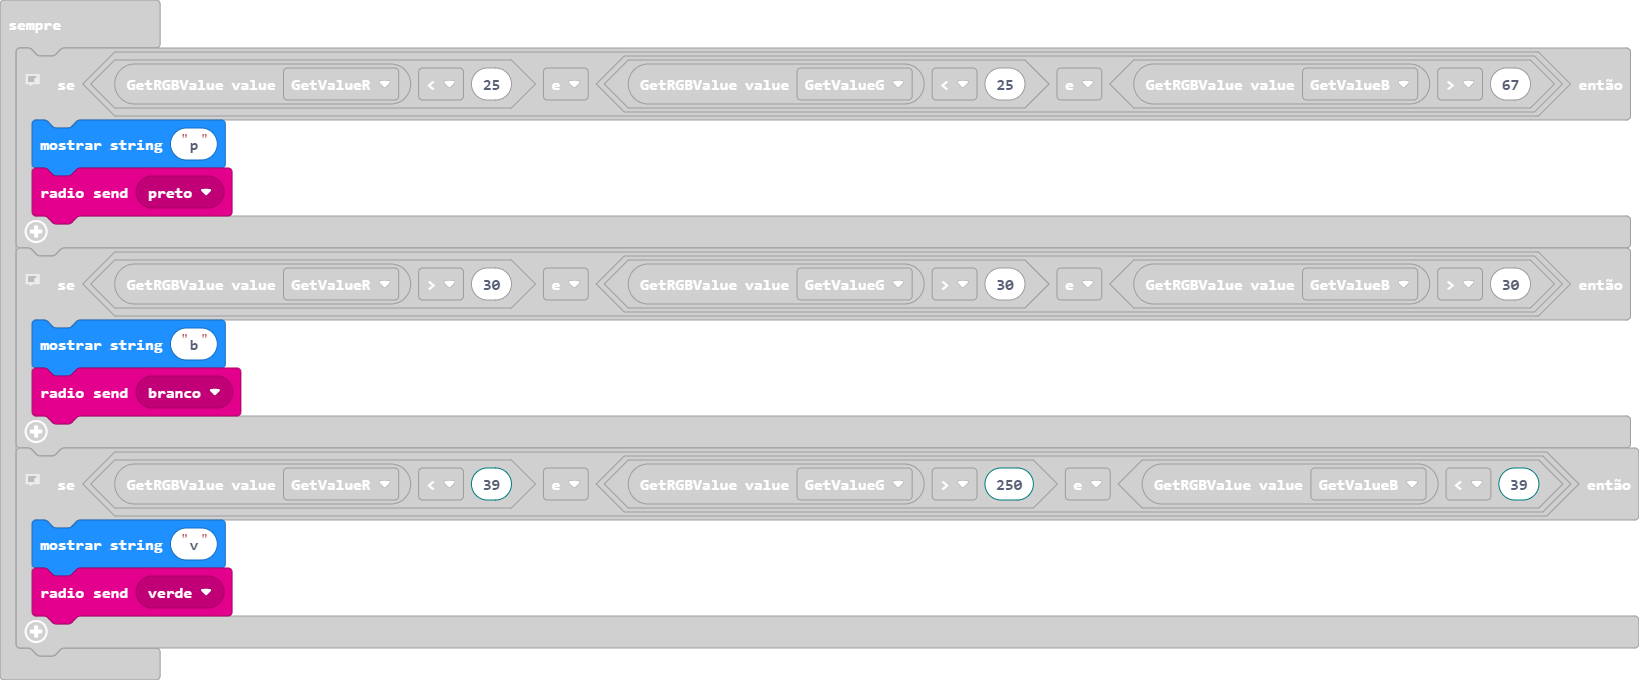
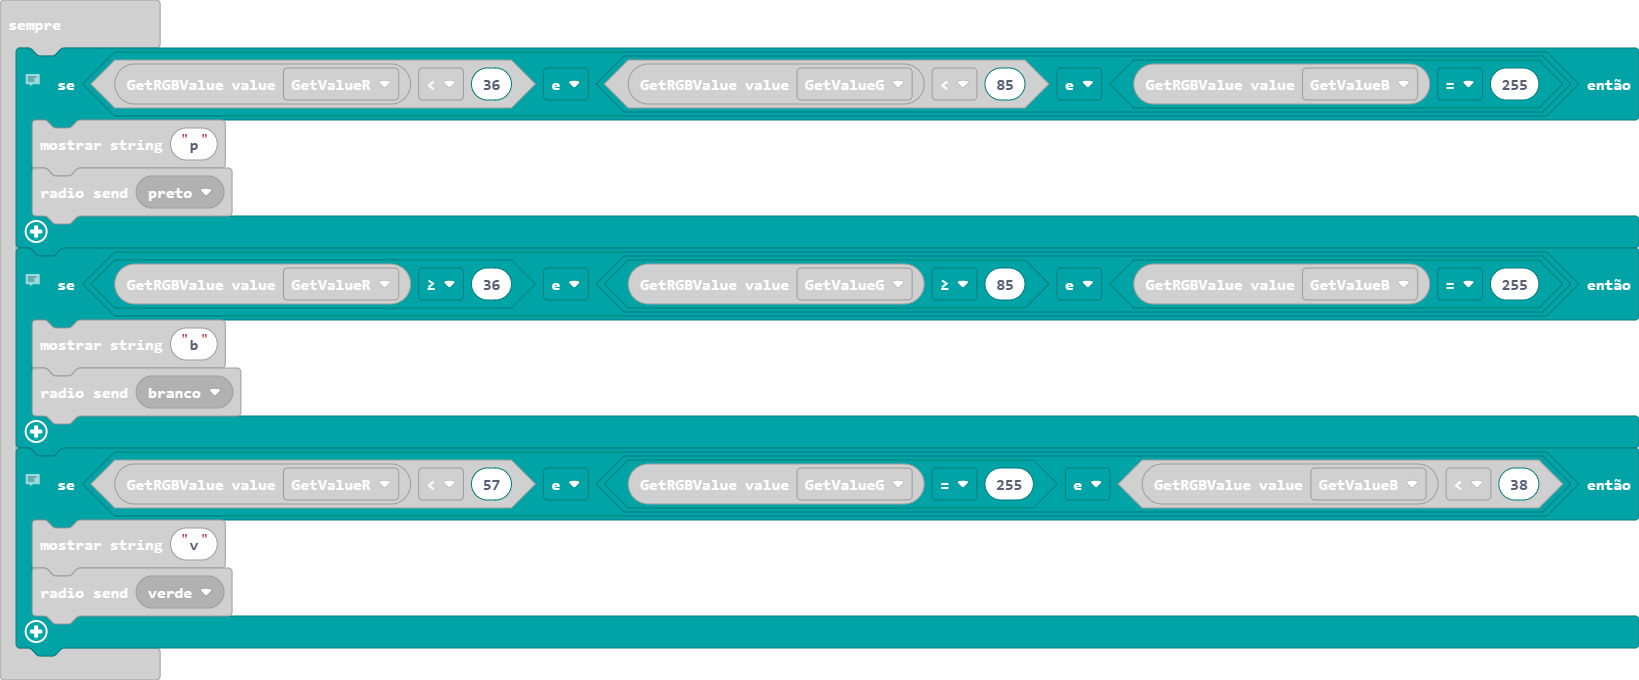
Atualizar 'main.blocks, main.ts'

diff --git a/main.ts b/main.ts
@@ -8,17 +8,17 @@ basic.showNumber(4)
 radio.setGroup(5)
 basic.forever(function () {
     // Vendo preto
-    if (Module_World_Color.GetRGBValue(Module_World_Color.enGetRGB.GetValueR) < 25 && (Module_World_Color.GetRGBValue(Module_World_Color.enGetRGB.GetValueG) < 25 && Module_World_Color.GetRGBValue(Module_World_Color.enGetRGB.GetValueB) > 67)) {
+    if (Module_World_Color.GetRGBValue(Module_World_Color.enGetRGB.GetValueR) < 36 && (Module_World_Color.GetRGBValue(Module_World_Color.enGetRGB.GetValueG) < 85 && Module_World_Color.GetRGBValue(Module_World_Color.enGetRGB.GetValueB) == 255)) {
         basic.showString("p")
         radio.sendMessage(RadioMessage.preto)
     }
     // vendo branco
-    if (Module_World_Color.GetRGBValue(Module_World_Color.enGetRGB.GetValueR) > 30 && (Module_World_Color.GetRGBValue(Module_World_Color.enGetRGB.GetValueG) > 30 && Module_World_Color.GetRGBValue(Module_World_Color.enGetRGB.GetValueB) > 30)) {
+    if (Module_World_Color.GetRGBValue(Module_World_Color.enGetRGB.GetValueR) >= 36 && (Module_World_Color.GetRGBValue(Module_World_Color.enGetRGB.GetValueG) >= 85 && Module_World_Color.GetRGBValue(Module_World_Color.enGetRGB.GetValueB) == 255)) {
         basic.showString("b")
         radio.sendMessage(RadioMessage.branco)
     }
     // vendo verde
-    if (Module_World_Color.GetRGBValue(Module_World_Color.enGetRGB.GetValueR) < 39 && (Module_World_Color.GetRGBValue(Module_World_Color.enGetRGB.GetValueG) > 250 && Module_World_Color.GetRGBValue(Module_World_Color.enGetRGB.GetValueB) < 39)) {
+    if (Module_World_Color.GetRGBValue(Module_World_Color.enGetRGB.GetValueR) < 57 && (Module_World_Color.GetRGBValue(Module_World_Color.enGetRGB.GetValueG) == 255 && Module_World_Color.GetRGBValue(Module_World_Color.enGetRGB.GetValueB) < 38)) {
         basic.showString("v")
         radio.sendMessage(RadioMessage.verde)
     }
